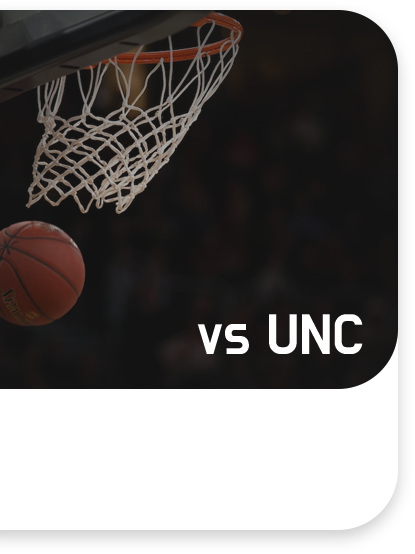
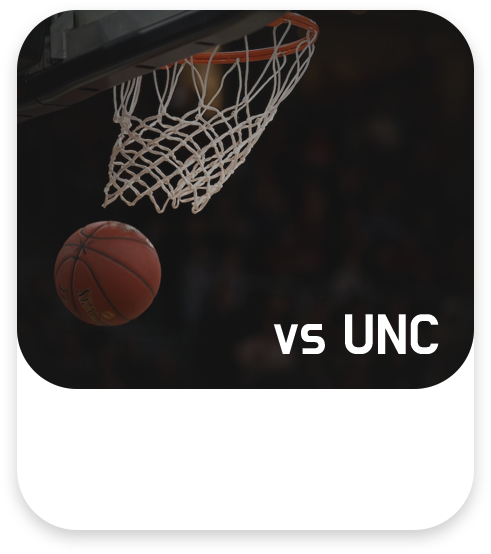
Progress Bar Implemented
- Just colors and shadows

diff --git a/pages/Store.js b/pages/Store.js
@@ -1,16 +1,10 @@
 import React from "react";
-import { ScrollView, SafeAreaView } from "react-native";
+import { ScrollView } from "react-native";
 import {
   MainContainer,
   Header,
   HeaderTitle,
   Container,
-  MoreInfoContainer,
-  InfoContainer,
-  DescriptText,
-  AssignmentNumText,
-  InfoText,
-  AssignmentProgressText,
   NoticeContainer,
   NoticeImage,
   NoticeText,
@@ -18,6 +12,7 @@ import {
   MarketContainer,
   Item,
   Center,
+  MarketIamgeContainer,
 } from "../style/styleStore";
 
 const Store = () => {
@@ -43,10 +38,21 @@ const Store = () => {
                 horizontal={true}
                 showsHorizontalScrollIndicator={false}
               >
-                <Item />
-                <Item />
-                <Item />
-                <Item />
+                <Item>
+                  <MarketIamgeContainer
+                    source={require("../design/ui/store/Bucks_1.png")}
+                  />
+                </Item>
+                <Item>
+                  <MarketIamgeContainer
+                    source={require("../design/ui/store/Bucks_2.png")}
+                  />
+                </Item>
+                <Item>
+                  <MarketIamgeContainer
+                    source={require("../design/ui/store/Bucks_3.png")}
+                  />
+                </Item>
               </ScrollView>
             </MarketContainer>
             <SectionTitle>GAME TICKETS</SectionTitle>
@@ -55,10 +61,21 @@ const Store = () => {
                 horizontal={true}
                 showsHorizontalScrollIndicator={false}
               >
-                <Item />
-                <Item />
-                <Item />
-                <Item />
+                <Item>
+                  <MarketIamgeContainer
+                    source={require("../design/ui/store/Game_1.png")}
+                  />
+                </Item>
+                <Item>
+                  <MarketIamgeContainer
+                    source={require("../design/ui/store/Game_2.png")}
+                  />
+                </Item>
+                <Item>
+                  <MarketIamgeContainer
+                    source={require("../design/ui/store/Game_3.png")}
+                  />
+                </Item>
               </ScrollView>
             </MarketContainer>
             <SectionTitle>PARKING PERMIT</SectionTitle>
@@ -67,10 +84,21 @@ const Store = () => {
                 horizontal={true}
                 showsHorizontalScrollIndicator={false}
               >
-                <Item />
-                <Item />
-                <Item />
-                <Item />
+                <Item>
+                  <MarketIamgeContainer
+                    source={require("../design/ui/store/Parking_1.png")}
+                  />
+                </Item>
+                <Item>
+                  <MarketIamgeContainer
+                    source={require("../design/ui/store/Parking_2.png")}
+                  />
+                </Item>
+                <Item>
+                  <MarketIamgeContainer
+                    source={require("../design/ui/store/Parking_3.png")}
+                  />
+                </Item>
               </ScrollView>
             </MarketContainer>
           </ScrollView>

diff --git a/style/styleStone.js b/style/styleStone.js
@@ -148,30 +148,40 @@ export const AssignmentProgressText = styled.Text`
   text-shadow-radius: 5px;
 `;
 
-// export const StoneImageContainer = styled.View`
-//   shadow-color: #ff5bda;
-//   shadow-opacity: 0.4;
-//   shadow-radius: 20px;
-// `;
+export const ProgressRing = styled.View`
+  width: ${SCREEN_WIDTH * 0.7}px;
+  height: ${SCREEN_WIDTH * 0.7}px;
+  border-radius: 500px;
+  border-width: 13px;
+  border-color: #ffdeb3;
+  box-shadow: 0px 0px 10px #e89d65;
+  background-color: transparent;
+`;
 
-// export const StoneImage = styled.Image`
-//   margin-top: ${SCREEN_HEIGHT * 0.1}px;
-//   max-height: ${SCREEN_HEIGHT * 0.27}px;
-//   max-width: ${SCREEN_WIDTH * 0.35}px;
-// `;
+export const Progress = styled.View`
+  position: absolute;
+  top: 0;
+  left: 0;
+  width: 100%;
+  height: 100%;
+  border-radius: 500px;
+  border-width: 10px;
+  border-color: #ffdeb3;
+  box-shadow: 0px 0px 20px #e89d65;
+`;
 
-// export const ExpProgressBarMax = styled.View`
-//   width: ${width * 0.13}px;
-//   height: ${height * 0.01}px;
-//   background-color: #373737;
-// `;
+export const ProgressBar = ({ progress }) => {
+  console.log("progress:", progress);
+  const rotateValue = `${progress * 360}deg`;
 
-// export const ExpProgressBarMax = styled.View`
-//   width: ${width * 0.13}px;
-//   height: ${height * 0.01}px;
-//   background-color: #373737;
-// `;
+  return (
+    <ProgressRing>
+      <Progress style={{ transform: [{ rotate: rotateValue }] }} />
+    </ProgressRing>
+  );
+};
 
-// export const ExpProgressBar = styled(ExpProgressBarMax)`
-
-// `;
+export const RingContainer = styled.View`
+  position: absolute;
+  z-index: -10000;
+`;

diff --git a/style/styleStore.js b/style/styleStore.js
@@ -96,7 +96,7 @@ export const SectionTitle = styled.Text`
   font-family: ${boldFont};
   color: white;
   padding-left: ${SCREEN_WIDTH * 0.06}px;
-  font-size: ${SCREEN_WIDTH * 0.045}px;
+  font-size: ${SCREEN_WIDTH * 0.04}px;
 `;
 
 export const MarketContainer = styled.View`
@@ -105,22 +105,24 @@ export const MarketContainer = styled.View`
   height: ${SCREEN_WIDTH * 0.48}px;
 `;
 
+export const MarketIamgeContainer = styled.Image`
+  max-height: 100%;
+  max-width: ${SCREEN_WIDTH * 0.404}px;
+`;
+
 export const Item = styled.TouchableOpacity.attrs({
   activeOpacity: 0.8, // Touchable Opacity Setting
 })`
   flex-direction: row;
   align-items: center;
-  justify-content: space-between;
+  justify-content: center;
   width: ${SCREEN_WIDTH * 0.37}px;
   height: ${SCREEN_WIDTH * 0.43}px;
-  background-color: rgba(255, 255, 255, 1);
   border-radius: ${(SCREEN_HEIGHT * 0.06) / 3}px;
-  padding: 20px;
   shadow-color: #000;
   shadow-opacity: 0.2;
   /* shadow-offset: {
     height: -10px;
   } */
-  padding: 0px 25px;
-  margin: 10px 7px;
+  margin: 10px 9px;
 `;

diff --git a/pages/Stone.js b/pages/Stone.js
@@ -17,6 +17,8 @@ import {
   AssignmentNumText,
   InfoText,
   AssignmentProgressText,
+  ProgressBar,
+  RingContainer,
 } from "../style/styleStone";
 
 const Stone = () => {
@@ -31,6 +33,9 @@ const Stone = () => {
             <PointsText> 8105 PTS</PointsText>
           </PointsContainer>
           <StoneExpContainer>
+            <RingContainer>
+              <ProgressBar progress={0.5} />
+            </RingContainer>
             <StoneExpTextCurrent>1029</StoneExpTextCurrent>
             <StoneExpTextMax>/2000</StoneExpTextMax>
           </StoneExpContainer>
